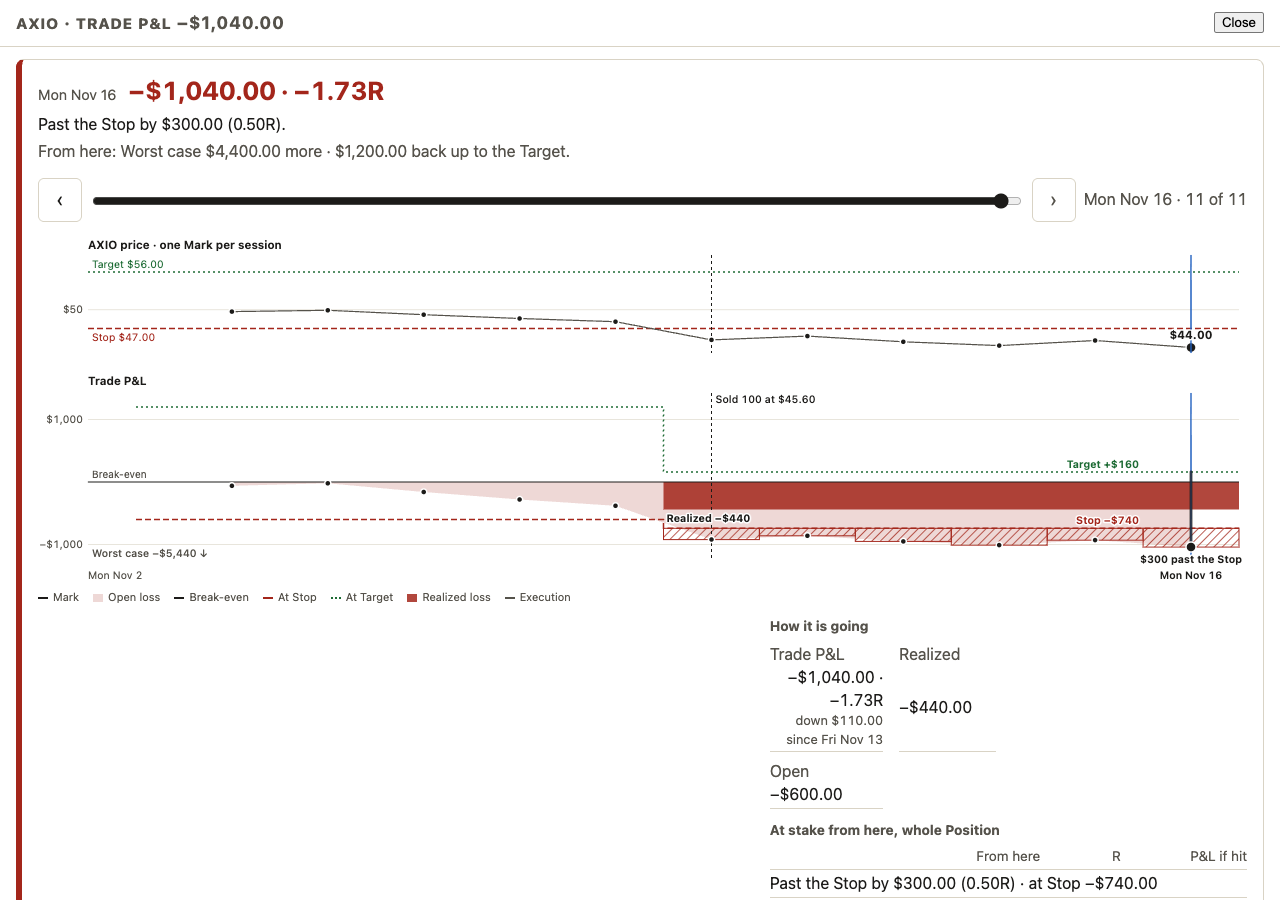
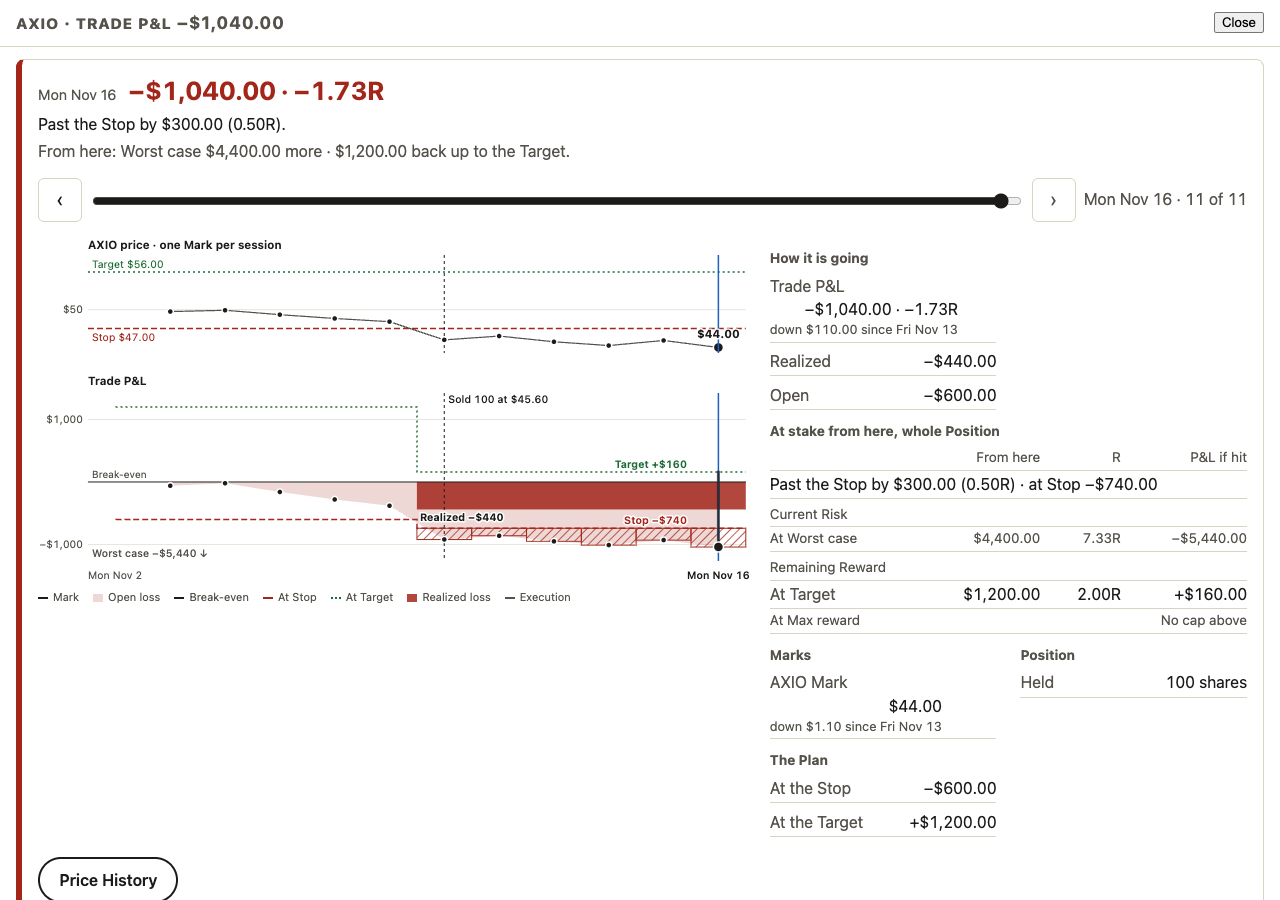
fix(replay): T9AR.23-S1 the readout sits beside the charts at 1280 and its figures stay on one line

diff --git a/src/ui/cockpit/styles/replay-overlay.css b/src/ui/cockpit/styles/replay-overlay.css
@@ -52,7 +52,7 @@
 /* A275, wide: the header across the top (above), under it the charts on the left and the readout on the right, everything else across the full width below. Dense packing lets the readout sit beside the charts whatever full-width lines come between them. */
 .replay-overlay .replay-card {
   display: grid;
-  grid-template-columns: minmax(0, 3fr) minmax(0, 2fr);
+  grid-template-columns: minmax(0, 1fr) minmax(0, 340px);
   grid-auto-flow: row dense;
   column-gap: 16px;
 }
@@ -61,7 +61,7 @@
   grid-column: 1 / -1;
 }
 
-.replay-overlay .replay-plot-frame {
+.replay-overlay .replay-chart-box {
   grid-column: 1;
   align-self: start;
 }
@@ -70,14 +70,20 @@
   grid-column: 2;
 }
 
+/* Beside the charts the readout's column is narrow; the app's two-column term list would give each row half of a group, so a row takes the group's whole width and every figure stays on one line. */
+@media (min-width: 861px) {
+  .replay-overlay .replay-readout dl {
+    grid-template-columns: minmax(0, 1fr);
+  }
+}
+
 /* A275, phone (the app's own phone breakpoint): one column, the overlay filling the screen. */
 @media (max-width: 860px) {
   .replay-overlay .replay-card {
     grid-template-columns: minmax(0, 1fr);
   }
 
-  .replay-overlay .replay-plot-frame,
+  .replay-overlay .replay-chart-box,
   .replay-overlay .replay-readout {
     grid-column: 1;
-  }
-}
+  }}

diff --git a/e2e/d9ar/overlay.spec.ts b/e2e/d9ar/overlay.spec.ts
@@ -76,7 +76,6 @@ test.describe('B9AR.1 The overlay on Trade Detail', () => {
   test('should put the readout beside the charts at 1280', async ({ profile }) => {
     test.setTimeout(240_000);
     // Product disagrees with the plan (reported to the main session): `.replay-chart-box` is the grid child since T9AR.16 and spans both columns, so the readout sits below the charts, not beside them.
-    test.fail(true, 'replay-overlay.css places .replay-plot-frame in column 1, but the grid child is .replay-chart-box, which wraps it');
     const { context, page } = await build(profile, BREN, closeOf('2026-11-16'), 10);
     expect(page.viewportSize()!.width).toBe(1280);
     await detailReplayButton(page).click();

diff --git a/e2e/d9ar/readout.spec.ts b/e2e/d9ar/readout.spec.ts
@@ -205,7 +205,6 @@ test.describe('B9AR.3 The readout', () => {
   for (const { fixture, through, back, where } of situations) {
     test(`should keep every readout figure on one line for ${where}`, async ({ profile }) => {
       test.setTimeout(240_000);
-      test.fail(true, 'the readout breaks the Trade P&L figure across two lines (reported to the main session)');
       const { context, page } = await build(profile, fixture, closeOf(through === 5 ? '2026-11-09' : '2026-11-16'), through);
       const scope = await openAt(page, 'ArrowLeft', back);
       await expectOneLineEach(scope, where);

diff --git a/evidence/D09AR/tdd-log/T9AR.23-S1.md b/evidence/D09AR/tdd-log/T9AR.23-S1.md
@@ -1,0 +1,14 @@
+# T9AR.23-S1 (lane OV)
+
+Browser cases, run with `.claude/scripts/with-browser-lock.sh npx playwright test e2e/d9ar/overlay.spec.ts e2e/d9ar/readout.spec.ts -g "beside the charts|one line"`.
+
+| step | result |
+|---|---|
+| red (test.fail lines removed, plan's grid selector only) | the readout was below the charts (x 770); with the chart box in column 1 the five "one line" cases still failed: "+$988.00 · 3.05R" is 41 px high on a 16 px font (the app's `dl` two-column grid gave each row half a group) |
+| green | 6 passed (14.0s): beside the charts at 1280, and the five one-line cases |
+
+Fix: `replay-overlay.css` places `.replay-chart-box` (not `.replay-plot-frame`) in column 1, wide and phone; at 861 px and wider the readout's `dl` is one column.
+
+Follow-up in the same commit: the first columns (3fr, 2fr) drew the P&L chart 715 px wide at 1280, under the 800 that e2e/d9ar/responsive-a11y.spec.ts requires; the grid is now `minmax(0, 1fr) minmax(0, 340px)` (chart about 853 px at 1280).
+
+Open: e2e/d9ar/chart.spec.ts "should list in the key only what R-BREN-U has drawn" (line 42) fails with the readout beside the charts. On Mon 11-02 the cursor's name covers the left axis label "Mon Nov 2", and corridor-pnl.tsx leaves that label out; the chart must be about 950 px or wider for them to clear, which no readout beside it at 1280 leaves room for. Needs a decision (corridor-pnl.tsx's label rule, or the case).
